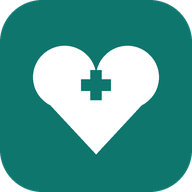
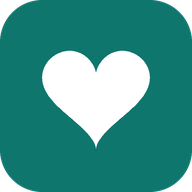
Simge: artı işareti kaldırıldı, yalnız kalp (düzgün eğri); paylaşım görseli yeni simgeyle

diff --git a/sw.js b/sw.js
@@ -1,5 +1,5 @@
 // BEKAPSAĞLIK — internetsiz çalışma için önbellek. Hiçbir veri dışarı gönderilmez.
-const KASA = "bekapsaglik-v3";
+const KASA = "bekapsaglik-v4";
 const DOSYALAR = ["./", "./index.html", "./manifest.json", "./ikon-180.png", "./ikon-192.png", "./ikon-512.png", "./ikon-512-maskable.png", "./zxing_okuyucu.js", "./zxing_reader.wasm", "./ilac_listesi.json"];
 self.addEventListener("install", e => { e.waitUntil(caches.open(KASA).then(c => c.addAll(DOSYALAR)).then(() => self.skipWaiting())); });
 self.addEventListener("activate", e => {
